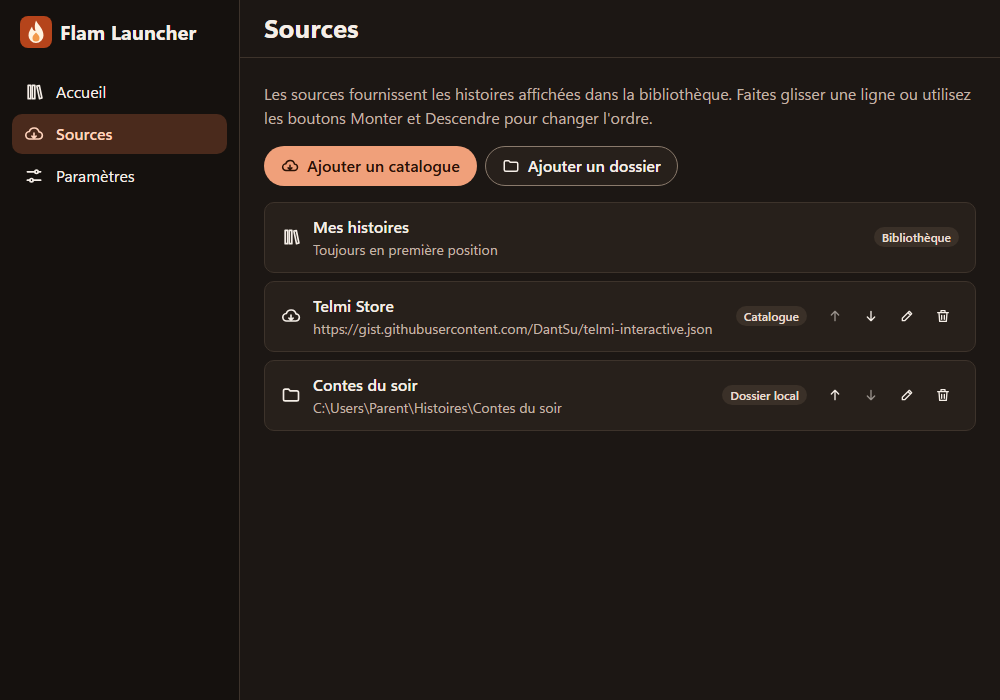
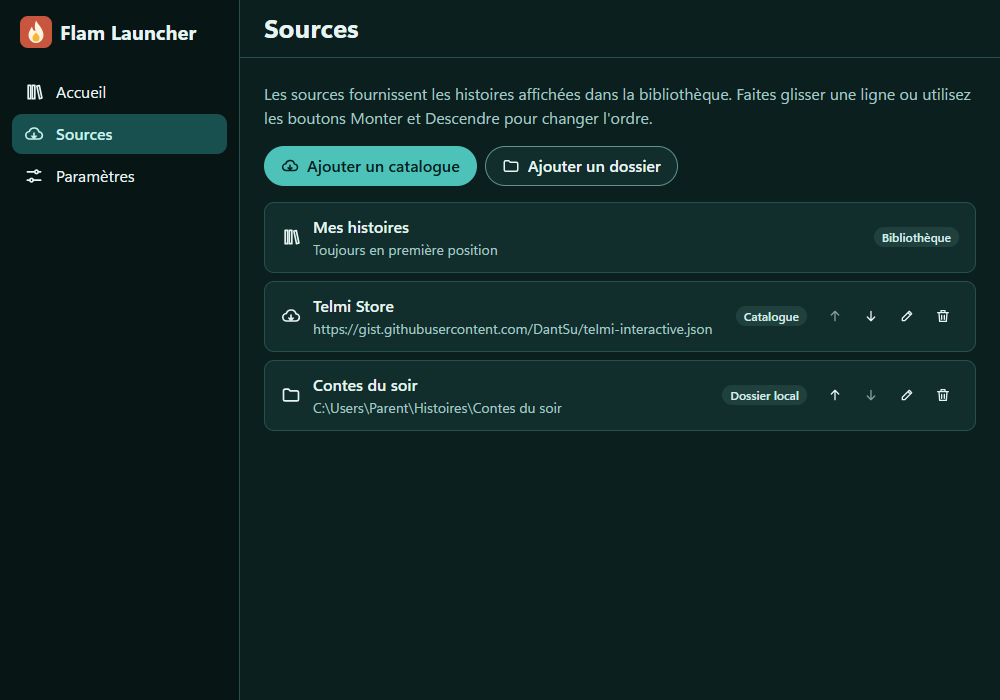
launcher UI : palette aux couleurs de la Flam (vert d'eau, jaune, orange) (#52)
* chore: réserve #49

* feat(launcher): palette aux couleurs de la Flam (vert d'eau, jaune, orange) (#49)

* docs(launcher): palette, rôles et contrastes dans DESIGN.md, captures regénérées dans les deux thèmes (#49)

diff --git a/apps/flam-launcher/src/theme/tokens.css b/apps/flam-launcher/src/theme/tokens.css
@@ -7,44 +7,65 @@
 :root {
   color-scheme: light dark;
 
-  /* Surfaces */
-  --color-bg: light-dark(#fbf7f2, #1c1714);
-  --color-surface: light-dark(#ffffff, #27201b);
-  --color-surface-sunken: light-dark(#f4ede4, #15110e);
-  --color-surface-hover: light-dark(#efe5d8, #342b24);
-  --color-backdrop: light-dark(rgb(42 33 27 / 45%), rgb(0 0 0 / 60%));
+  /* Surfaces : blanc verdâtre en clair, vert très foncé (écran de la Flam) en sombre */
+  --color-bg: light-dark(#f6fbfa, #0b1f1e);
+  --color-surface: light-dark(#ffffff, #122e2c);
+  --color-surface-sunken: light-dark(#e2f1ef, #071615);
+  --color-surface-hover: light-dark(#cfe7e4, #1c423f);
+  --color-backdrop: light-dark(rgb(18 48 47 / 45%), rgb(0 0 0 / 60%));
 
   /* Bordures */
-  --color-border: light-dark(#e3d8ca, #3d332b);
-  --color-border-strong: light-dark(#8f7c6a, #8a7a6c);
+  --color-border: light-dark(#cfe3e0, #25504c);
+  --color-border-strong: light-dark(#5b827e, #5e938e);
 
   /* Texte */
-  --color-text: light-dark(#2a211b, #f5eee7);
-  --color-text-muted: light-dark(#66574b, #c2b4a7);
+  --color-text: light-dark(#12302f, #e6f4f2);
+  --color-text-muted: light-dark(#41605d, #a6c8c4);
 
-  /* Action principale : brique chaleureuse */
-  --color-primary: light-dark(#b5441b, #f0a07a);
-  --color-primary-hover: light-dark(#983612, #f6b797);
-  --color-on-primary: light-dark(#ffffff, #2a1206);
-  --color-primary-soft: light-dark(#fbe3d6, #4a2a1c);
-  --color-on-primary-soft: light-dark(#8a2f0f, #ffd3bd);
+  /* Primaire : vert d'eau du boîtier (barre latérale, actions, sélection, liens) */
+  --color-primary: light-dark(#17706b, #4cc2b9);
+  --color-primary-hover: light-dark(#115b57, #6fd3cb);
+  --color-on-primary: light-dark(#ffffff, #04201e);
+  --color-primary-soft: light-dark(#c9e8e4, #17504f);
+  --color-on-primary-soft: light-dark(#0d4743, #c9efea);
 
-  /* Danger */
-  --color-danger: light-dark(#b3261e, #f08a80);
-  --color-danger-hover: light-dark(#931d17, #f5a59d);
-  --color-on-danger: light-dark(#ffffff, #2a0a06);
+  /* Accent : jaune de la molette et des boutons (« Jouer », mises en avant).
+     Le texte posé dessus est foncé ; le contour garantit 3:1 sur les surfaces. */
+  --color-accent: #f4b731;
+  --color-accent-hover: #ffc94d;
+  --color-on-accent: light-dark(#2b2000, #241a00);
+  --color-accent-border: light-dark(#8a6300, #f4b731);
+
+  /* Secondaire : orange brique du logo (badges, avancement) */
+  --color-secondary: light-dark(#b84a31, #e8785f);
+  --color-secondary-hover: light-dark(#9c3b25, #f19480);
+  --color-on-secondary: light-dark(#ffffff, #2a0d06);
+  --color-secondary-soft: light-dark(#fbe0d8, #4a2218);
+  --color-on-secondary-soft: light-dark(#8a2f1a, #ffc4b3);
+
+  /* Danger : rouge framboise (teinte 340°), à l'écart de l'orange (11°) */
+  --color-danger: light-dark(#b00f45, #ff8cb4);
+  --color-danger-hover: light-dark(#8e0b38, #ffadc9);
+  --color-on-danger: light-dark(#ffffff, #3a0613);
+
+  /* Couleurs de marque (logo), identiques dans les deux thèmes */
+  --brand-orange: #c8553d;
+  --brand-cream: #fff3e0;
+  --brand-yellow: #f4b731;
 
   /* Tons des badges (fond / texte) */
-  --tone-neutral-bg: light-dark(#efe8df, #3a3028);
-  --tone-neutral-fg: light-dark(#4d4036, #eaded2);
-  --tone-info-bg: light-dark(#dcecf7, #183447);
-  --tone-info-fg: light-dark(#18527a, #a9d6f5);
+  --tone-neutral-bg: light-dark(#e6efee, #20403d);
+  --tone-neutral-fg: light-dark(#34504d, #d5ebe8);
+  --tone-info-bg: light-dark(#dcebf8, #183447);
+  --tone-info-fg: light-dark(#17507a, #a9d6f5);
   --tone-success-bg: light-dark(#dcefdc, #1b3a20);
   --tone-success-fg: light-dark(#23602c, #a8dcae);
   --tone-warning-bg: light-dark(#fbecc8, #42320d);
   --tone-warning-fg: light-dark(#6f4a00, #f3d389);
-  --tone-danger-bg: light-dark(#fadcd8, #4a1d18);
-  --tone-danger-fg: light-dark(#9c2318, #ffb4a9);
+  --tone-danger-bg: light-dark(#fbdce6, #4a1527);
+  --tone-danger-fg: light-dark(#9a0f3c, #ffb3c8);
+  --tone-secondary-bg: light-dark(#fbe0d8, #4a2218);
+  --tone-secondary-fg: light-dark(#8a2f1a, #ffc4b3);
 
   /* Focus : bleu distinct de la couleur d'action pour rester visible partout */
   --color-focus: light-dark(#1f5fc4, #8fb8ff);
@@ -77,9 +98,9 @@
   --radius-md: 10px;
   --radius-lg: 16px;
   --radius-pill: 999px;
-  --shadow-sm: 0 1px 2px light-dark(rgb(42 33 27 / 10%), rgb(0 0 0 / 40%));
-  --shadow-md: 0 4px 14px light-dark(rgb(42 33 27 / 12%), rgb(0 0 0 / 45%));
-  --shadow-lg: 0 12px 32px light-dark(rgb(42 33 27 / 18%), rgb(0 0 0 / 55%));
+  --shadow-sm: 0 1px 2px light-dark(rgb(18 48 47 / 10%), rgb(0 0 0 / 40%));
+  --shadow-md: 0 4px 14px light-dark(rgb(18 48 47 / 12%), rgb(0 0 0 / 45%));
+  --shadow-lg: 0 12px 32px light-dark(rgb(18 48 47 / 18%), rgb(0 0 0 / 55%));
 
   /* Mise en page */
   --sidebar-width: 15rem;

diff --git a/apps/flam-launcher/src/features/demo/DemoPage.tsx b/apps/flam-launcher/src/features/demo/DemoPage.tsx
@@ -151,7 +151,7 @@ function DemoContent() {
                 actions={
                   <IconButton
                     icon="play"
-                    variant="primary"
+                    variant="accent"
                     size="sm"
                     label={`${demoFr.play} : ${story.title}`}
                   />
@@ -168,7 +168,9 @@ function DemoContent() {
           <Button variant="primary" icon="download">
             {demoFr.install}
           </Button>
-          <Button icon="play">{demoFr.play}</Button>
+          <Button variant="accent" icon="play">
+            {demoFr.play}
+          </Button>
           <Button variant="ghost" icon="refresh">
             {demoFr.refresh}
           </Button>
@@ -182,7 +184,7 @@ function DemoContent() {
             {t.sources.add}
           </Button>
           <IconButton icon="sliders" variant="secondary" label={demoFr.settings} />
-          <IconButton icon="play" variant="primary" label={demoFr.play} />
+          <IconButton icon="play" variant="accent" label={demoFr.play} />
         </div>
       </section>
 
@@ -194,6 +196,7 @@ function DemoContent() {
           <Badge tone="success" icon="check">
             {t.status.installed}
           </Badge>
+          <Badge tone="secondary">{t.status.new}</Badge>
           <Badge tone="warning">{t.status.partial}</Badge>
           <Badge tone="danger" icon="alert">
             {t.status.incompatible}

diff --git a/apps/flam-launcher/src/components/AppLogo.tsx b/apps/flam-launcher/src/components/AppLogo.tsx
@@ -1,5 +1,7 @@
+import "./AppLogo.css";
+
 /**
- * Logo de l'application : une petite flamme sur un carré brique arrondi.
+ * Logo de l'application : une petite flamme sur un carré orange brique arrondi.
  * Même dessin que l'icône de l'application (`src-tauri/icons/app-icon.svg`).
  */
 export function AppLogo({ size = 32 }: { size?: number }) {
@@ -11,12 +13,15 @@ export function AppLogo({ size = 32 }: { size?: number }) {
       aria-hidden="true"
       focusable="false"
     >
-      <rect width="64" height="64" rx="16" fill="#b5441b" />
+      <rect width="64" height="64" rx="16" className="fl-logo__bg" />
       <path
         d="M32 9c5 10 15 16 15 30a15 15 0 0 1-30 0c0-8 4-12 7-18 1 6 4 9 7 9-2-7-2-14 1-21z"
-        fill="#fff3e0"
+        className="fl-logo__flame"
       />
-      <path d="M32 33c3 4 7 6 7 11a7 7 0 0 1-14 0c0-5 4-7 7-11z" fill="#f2994a" />
+      <path
+        d="M32 33c3 4 7 6 7 11a7 7 0 0 1-14 0c0-5 4-7 7-11z"
+        className="fl-logo__core"
+      />
     </svg>
   );
 }

diff --git a/apps/flam-launcher/src/components/Button/Button.test.tsx b/apps/flam-launcher/src/components/Button/Button.test.tsx
@@ -48,3 +48,14 @@ it("n'a aucune violation axe", async () => {
   );
   await expectComponentAccessible(container);
 });
+
+it("applique la variante accent (jaune) au bouton Jouer", async () => {
+  const { container } = render(
+    <Button variant="accent" icon="play">
+      Jouer
+    </Button>,
+  );
+
+  expect(screen.getByRole("button", { name: "Jouer" })).toHaveClass("fl-button--accent");
+  await expectComponentAccessible(container);
+});

diff --git a/apps/flam-launcher/src/components/IconButton/IconButton.css b/apps/flam-launcher/src/components/IconButton/IconButton.css
@@ -28,6 +28,16 @@
   color: var(--color-on-primary);
 }
 
+.fl-icon-button--accent {
+  border-color: var(--color-accent-border);
+  background: var(--color-accent);
+  color: var(--color-on-accent);
+}
+
+.fl-icon-button--accent:hover:not(:disabled) {
+  background: var(--color-accent-hover);
+}
+
 .fl-icon-button--ghost:hover:not(:disabled),
 .fl-icon-button--secondary:hover:not(:disabled) {
   background: var(--color-surface-hover);

diff --git a/apps/flam-launcher/src/components/ProgressBar/ProgressBar.css b/apps/flam-launcher/src/components/ProgressBar/ProgressBar.css
@@ -18,8 +18,13 @@
 .fl-progress__fill {
   height: 100%;
   border-radius: inherit;
-  background: var(--color-primary);
+  background: var(--color-secondary);
   transition: inline-size var(--duration-normal) var(--easing);
+}
+
+/* Avancement en cours : orange (couleur secondaire). */
+.fl-progress--primary .fl-progress__fill {
+  background: var(--color-secondary);
 }
 
 .fl-progress--success .fl-progress__fill {

diff --git a/apps/flam-launcher/src/components/Button/Button.css b/apps/flam-launcher/src/components/Button/Button.css
@@ -31,6 +31,16 @@
   background: var(--color-primary-hover);
 }
 
+.fl-button--accent {
+  border-color: var(--color-accent-border);
+  background: var(--color-accent);
+  color: var(--color-on-accent);
+}
+
+.fl-button--accent:hover:not(:disabled) {
+  background: var(--color-accent-hover);
+}
+
 .fl-button--secondary {
   background: var(--color-surface);
   border-color: var(--color-border-strong);

diff --git a/apps/flam-launcher/src/components/Button/Button.tsx b/apps/flam-launcher/src/components/Button/Button.tsx
@@ -3,7 +3,7 @@ import { cx } from "../cx";
 import { Icon, type IconName } from "../Icon";
 import "./Button.css";
 
-export type ButtonVariant = "primary" | "secondary" | "ghost" | "danger";
+export type ButtonVariant = "primary" | "accent" | "secondary" | "ghost" | "danger";
 export type ButtonSize = "md" | "sm";
 
 export interface ButtonProps extends ComponentPropsWithRef<"button"> {

diff --git a/apps/flam-launcher/src/features/demo/demoData.ts b/apps/flam-launcher/src/features/demo/demoData.ts
@@ -71,7 +71,7 @@ export const demoStories: DemoStory[] = [
     title: "Le grand voyage de Mila",
     ageMin: 5,
     badges: [
-      { id: "new", label: t.status.new, tone: "warning", icon: "sparkle" },
+      { id: "new", label: t.status.new, tone: "secondary", icon: "sparkle" },
       { id: "compat", label: t.status.partial, tone: "warning" },
     ],
     progress: 62,

diff --git a/apps/flam-launcher/src/components/Badge/Badge.tsx b/apps/flam-launcher/src/components/Badge/Badge.tsx
@@ -3,7 +3,8 @@ import { cx } from "../cx";
 import { Icon, type IconName } from "../Icon";
 import "./Badge.css";
 
-export type BadgeTone = "neutral" | "info" | "success" | "warning" | "danger";
+export type BadgeTone =
+  "neutral" | "info" | "success" | "warning" | "danger" | "secondary";
 
 export interface BadgeProps {
   tone?: BadgeTone;

diff --git a/apps/flam-launcher/src/components/IconButton/IconButton.tsx b/apps/flam-launcher/src/components/IconButton/IconButton.tsx
@@ -10,7 +10,7 @@ export interface IconButtonProps extends Omit<
   icon: IconName;
   /** Libellé accessible, également affiché en infobulle. Obligatoire. */
   label: string;
-  variant?: "ghost" | "secondary" | "primary";
+  variant?: "ghost" | "secondary" | "primary" | "accent";
   size?: "md" | "sm";
 }
 

diff --git a/apps/flam-launcher/src/components/Badge/Badge.css b/apps/flam-launcher/src/components/Badge/Badge.css
@@ -30,6 +30,11 @@
   color: var(--tone-warning-fg);
 }
 
+.fl-badge--secondary {
+  background: var(--tone-secondary-bg);
+  color: var(--tone-secondary-fg);
+}
+
 .fl-badge--danger {
   background: var(--tone-danger-bg);
   color: var(--tone-danger-fg);
